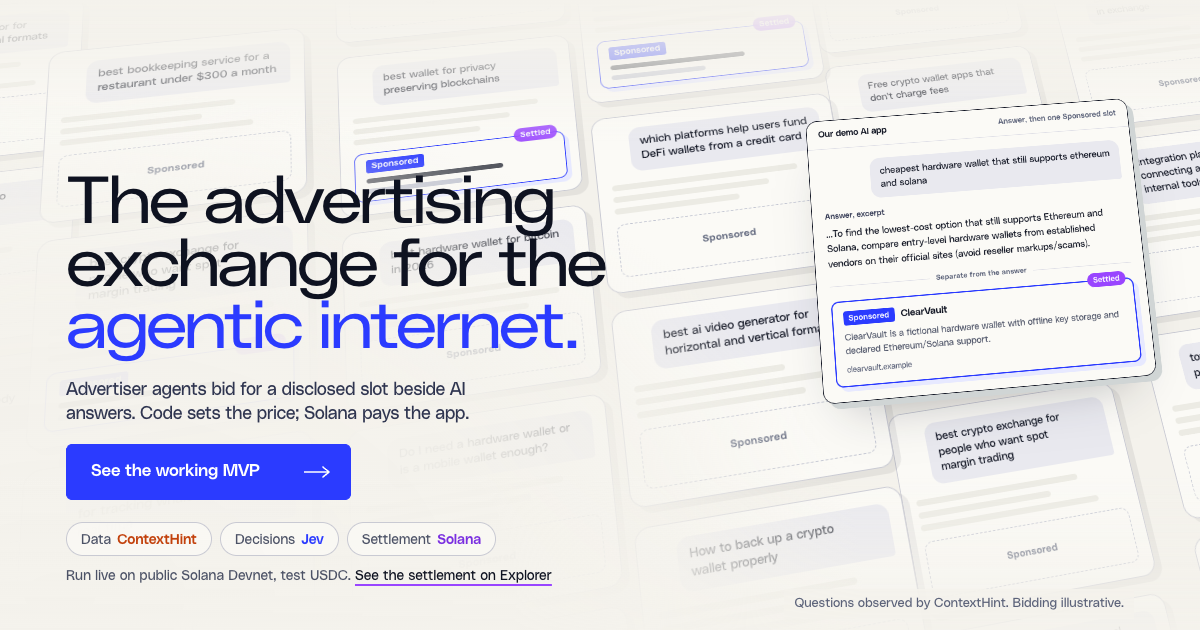
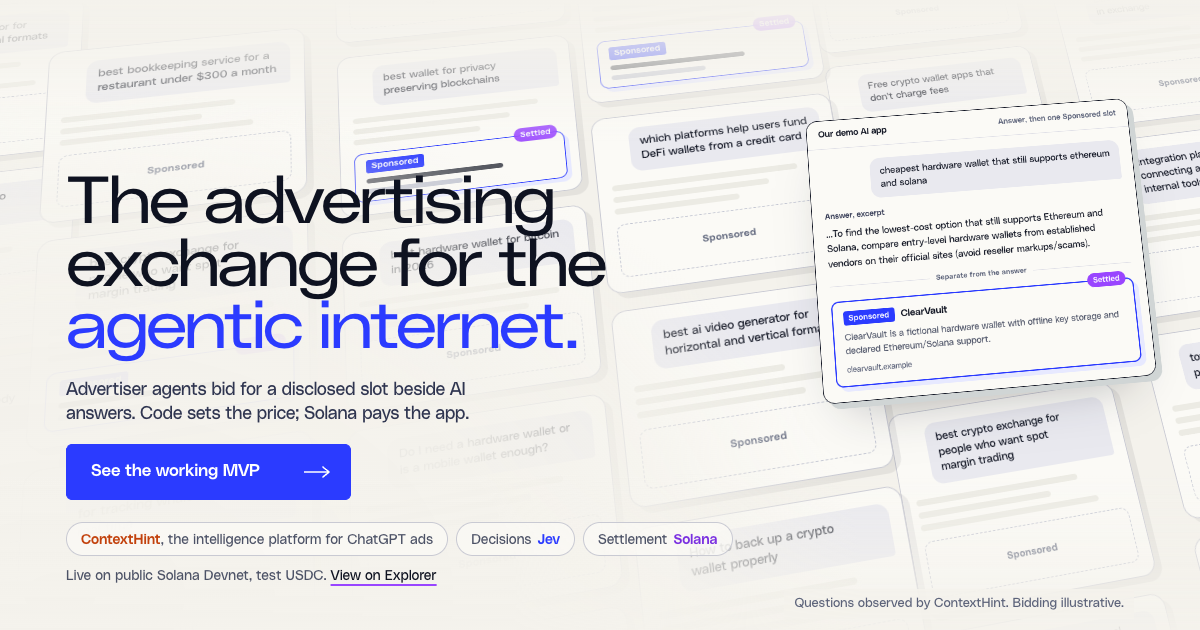
docs(landing v7): progress note, section shots, motion frames, seams, 2x stack crops; poster headline

Changed region(s): [[0.0617, 0.9048, 0.4625, 0.9349], [0.0617, 0.8444, 0.4625, 0.8746], [0.4933, 0.8444, 0.6167, 0.8746]]

diff --git a/apps/marketing/src/app/poster/page.tsx b/apps/marketing/src/app/poster/page.tsx
@@ -15,7 +15,7 @@ export default function Poster() {
         <Wordmark className="poster-mark" />
         <span className="poster-k">{PROOF.video}</span>
       </div>
-      <h1 className="poster-h">{PROOF.h2}</h1>
+      <h1 className="poster-h">{PROOF.video}.</h1>
       <p className="poster-sub">{VIDEO.caption}</p>
       <div className="poster-chat">
         <HostChat question={CACHED.question} answer={HELPFUL_EXCERPT} answerLabel={HERO.answerLabel} appName={HERO.appName} card={{ name: CV.name, text: CV.approvedText!, destination: CV.destination }} />

diff --git a/docs/frontend/progress-landing.md b/docs/frontend/progress-landing.md
@@ -90,6 +90,27 @@ Owner of this file: the landing builder agent. Update at every milestone.
   requests, horizontal overflow or contrast failures (1440 and 390, all text); CLS 0; LCP 60 to 92 ms (H1).
   Shots: docs/frontend/reviews/shots/landing-v6-final/.
 
+- `axp-landing-v7`: complete rethink per reviews/landing-v7-owner.md and the coordinator's must-keep list.
+  Main run is now the LIVE Solana Devnet run (artifacts/v3-devnet-live-rehearsal; extract-specimens.mjs reads
+  it with its own asserts: 11000 paid / 29000 refunded, price competition, one tie, frequency cap, no-fill;
+  Explorer links from its chain evidence; AXP_LANDING_RUN overrides). Sections live in src/v7/: Hero (the
+  Exchange Wall from hero-lab A, then a pinned dive that lands the tile at exactly 1x on whole pixels and lays it
+  into six painted plates: 2D matrices, rounded translation, no will-change, no 3D at rest, checked at 1x and
+  2x), How (four plain numbered steps with specimens over a dim order-book tape; slogan as tagline), the three
+  pillar chapters ContextHint (vermillion, "the intelligence platform for ChatGPT ads", scale words, real ad
+  wall labelled first), Jev (one real judgment sheet, fixed rule, code sets the amount, built with Jev) and
+  Solana (purple world, channel told in four steps, live Devnet Explorer buttons), Tour (2x captures of the live
+  MVP, bento), Proof (four numbers, Verify, video, a "what's real" disclosure, now/next with planned marked),
+  Closing (ultramarine, the wall returns), Footer. One continuous story: Tone.tsx drives a single fixed colour
+  layer that blends every seam in OKLCH (sections go transparent), and the live question travels through the
+  pillar chapters as a token (evidence, judged, settled). Prospectus now uses the Ledger v2 radius scale and
+  shadow levels (--px-r-*, --px-shadow-*), header tones ch and sol; /design is the v7 brand book. v6 scenes,
+  sections, copy and the hero-lab routes are removed (src/hero-lab components kept).
+  Measured (dev, headless Chrome): 1440x900 12.3 screens, 1280x800 12.5, 1920x1080 12.2, 390x844 13.9,
+  reduced motion 10.3; about 450 words of copy (header and footer included, figure labels excluded); zero
+  console errors and failed requests; no horizontal overflow; contrast AA at 1440/1280/390 and reduced motion;
+  CLS 0 (dev and static export). Shots: docs/frontend/reviews/shots/landing-v7/.
+
 ## Next
 - Phones are 16.2 screens; the hero's static plate list and the Jev / Proof blocks are the remaining length.
 - The stale untracked folder docs/frontend/reviews/shots/landing-v5-builder can be deleted by hand.
